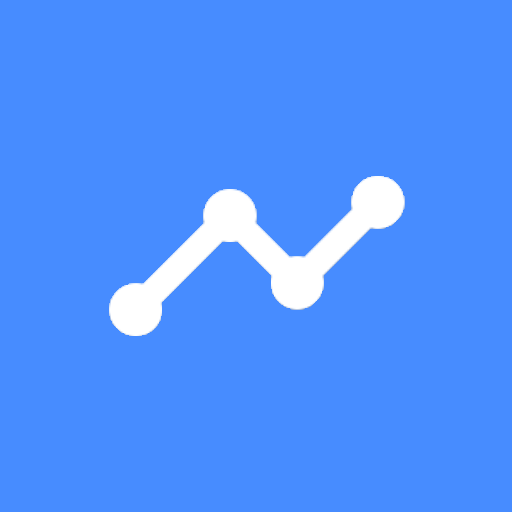
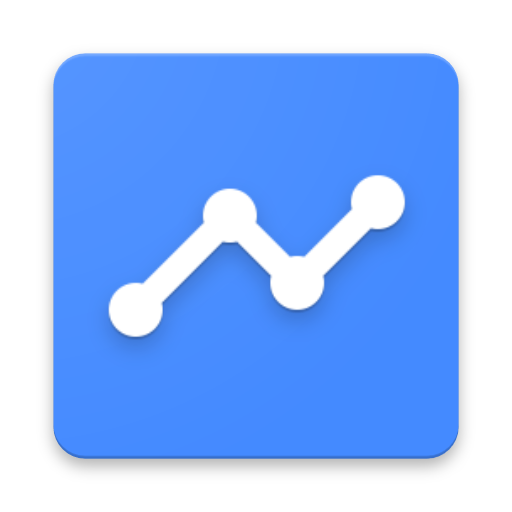
Add files via upload

diff --git a/index.html b/index.html
@@ -28,24 +28,20 @@
         <div class="mdl-layout__drawer mdl-layout--small-screen-only">
             <nav class="mdl-navigation mdl-typography--body-1-force-preferred-font">
                 <a class="mdl-navigation__link is-active" href="https://play.google.com/store/apps/developer?id=Cat+%27n+the+Box">Playstore</a>
-
             </nav>
         </div>
-
          <div id="container" layout="column">
        <div id="header"></div>
        <div id="body"></div>
        <div id="footer"></div>
     </div>
-
-
         <main class="mdl-layout__content">
             <div class="mdl-grid portfolio-max-width">
                 <div class="mdl-cell mdl-card mdl-shadow--4dp portfolio-card">
-
-                    <div class="mdl-card__title">
+                   <div class="mdl-card__title">
                         <h2 class="mdl-card__title-text">DNS Speed Test</h2>
                     </div>
+                    <p align="center"><img src="images/dns.png" alt="" border="0" width="80" height="80"> </p>
                     <div class="mdl-card__supporting-text">
                        Fastest way to find the best DNS Server for your Location. <p></p>
                     </div>
@@ -54,10 +50,10 @@
                     </div>
                 </div>
                 <div class="mdl-cell mdl-card mdl-shadow--4dp portfolio-card">
-
                     <div class="mdl-card__title">
                         <h2 class="mdl-card__title-text">Battle Hub for Fortnite</h2>
                     </div>
+                    <p align="center"><img src="images/battlehub.png" alt="" border="0" width="80" height="80"> </p>
                     <div class="mdl-card__supporting-text">
                        View your statistics ,map,item shop,skins and news for Fortnite <p></p>
                     </div>
@@ -65,11 +61,23 @@
                         <p align="center"><a href='https://play.google.com/store/apps/details?id=com.catinthebox.forthub&pcampaignid=MKT-Other-global-all-co-prtnr-py-PartBadge-Mar2515-1'><img alt='Get it on Google Play' height="80" width="230" src='https://play.google.com/intl/en_us/badges/images/generic/en_badge_web_generic.png'/></a> </p>
                     </div>
                 </div>
+                 <div class="mdl-cell mdl-card mdl-shadow--4dp portfolio-card">
+                    <div class="mdl-card__title">
+                        <h2 class="mdl-card__title-text">OwnVoice | Microphone</h2>
+                    </div>
+                    <p align="center"><img src="images/ownvoice.png" alt="" border="0" width="80" height="80"> </p>
+                    <div class="mdl-card__supporting-text">
+                        Use your device as a microphone for your Computer ,Bluetooth speaker or Console.
+                    </div>
+                    <div class="mdl-card__actions mdl-card--border">
+                        <p align="center"><a href='https://play.google.com/store/apps/details?id=com.app.nikteck.microphone&pcampaignid=MKT-Other-global-all-co-prtnr-py-PartBadge-Mar2515-1'><img alt='Get it on Google Play' height="80" width="230" src='https://play.google.com/intl/en_us/badges/images/generic/en_badge_web_generic.png'/></a>    </p>
+                        </div>
+                </div>
                 <div class="mdl-cell mdl-card mdl-shadow--4dp portfolio-card">
-
                     <div class="mdl-card__title">
                         <h2 class="mdl-card__title-text">HW Detail</h2>
                     </div>
+                    <p align="center"><img src="images/hwdetail.png" alt="" border="0" width="80" height="80"> </p>
                     <div class="mdl-card__supporting-text">
                         information about your device like processor, model, ram, camera, sensors etc.
                     </div>
@@ -77,18 +85,13 @@
                         <p align="center"><a href='https://play.google.com/store/apps/details?id=com.catinthebox.apps.hwdetail&pcampaignid=MKT-Other-global-all-co-prtnr-py-PartBadge-Mar2515-1'><img alt='Get it on Google Play' height="80" width="230" src='https://play.google.com/intl/en_us/badges/images/generic/en_badge_web_generic.png'/></a> </p>
                     </div>
                 </div>
-
                <p></p>
-
             </div>
              <p></p>
         </main>
-
          <p></p>
         <footer>catinthebox.apps@gmail.com</footer>
     </div>
-
-
     <script src="https://code.getmdl.io/1.3.0/material.min.js"></script>
 </body>
 </html>

diff --git a/styles.css b/styles.css
@@ -1,28 +1,21 @@
 .portfolio-header {
   position: relative;
-
 }
-
 .portfolio-header .mdl-layout__header-row {
   padding: 0;
   -webkit-justify-content: center;
       -ms-flex-pack: center;
           justify-content: center;
 }
-
-
-
 .portfolio-max-width {
   max-width: 900px;
   margin: auto;
 }
-
 .mdl-card__actions mdl-card--border {
   height: 20px;
     width: 100%;
   margin: auto;
 }
-
 footer {
     /* just for demo */
     background-color: #F8F8F8;
